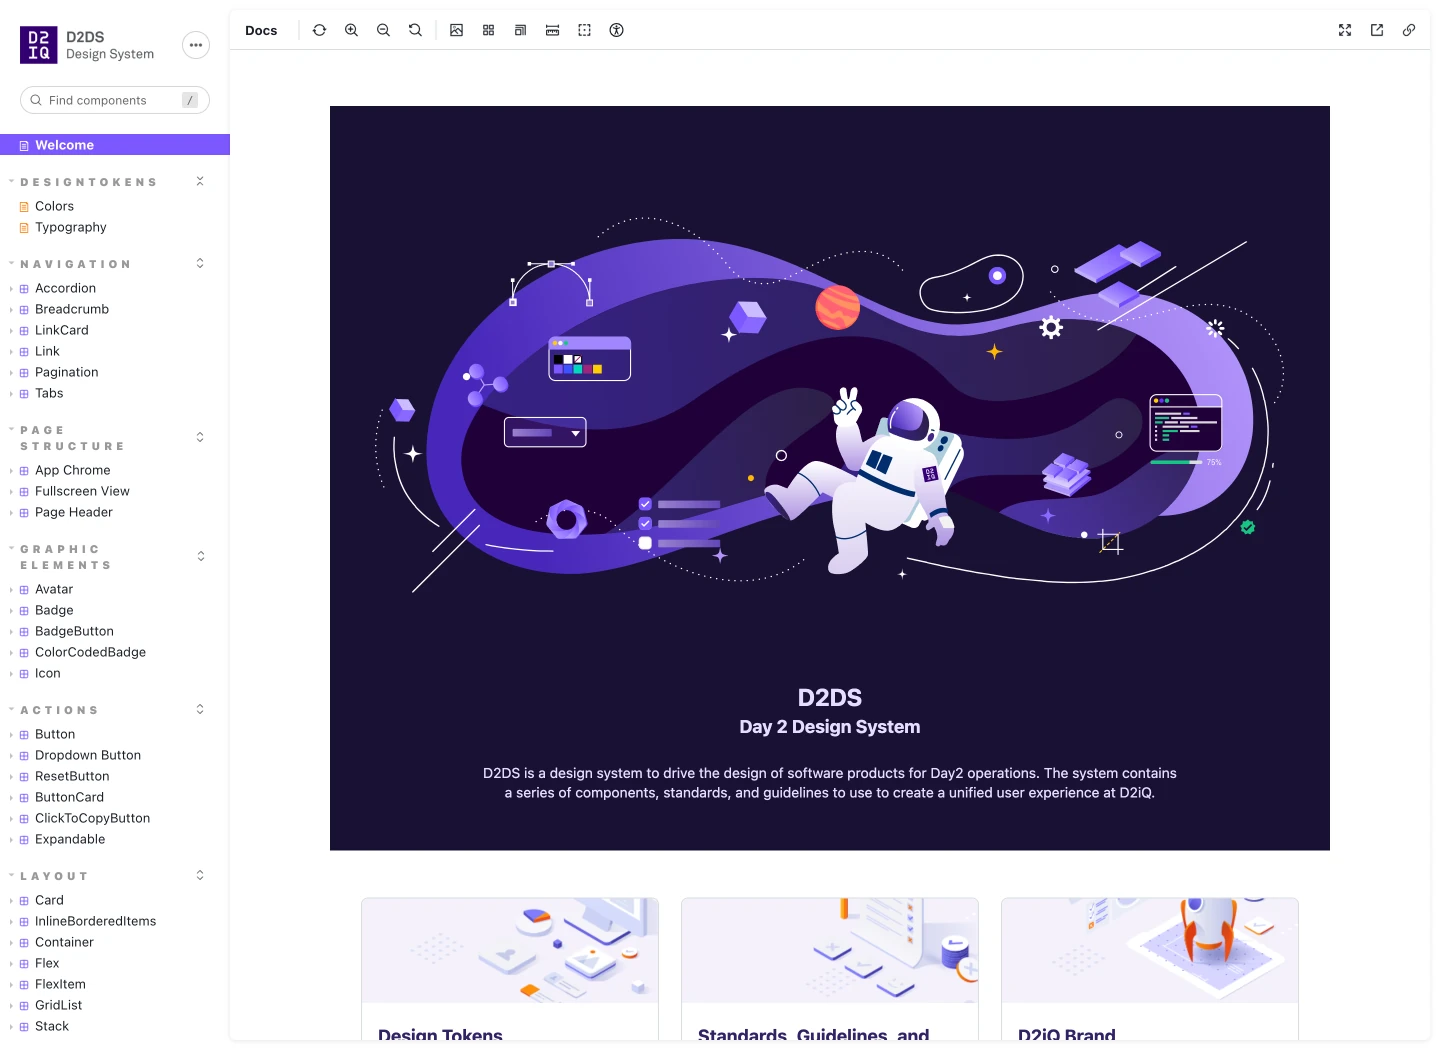
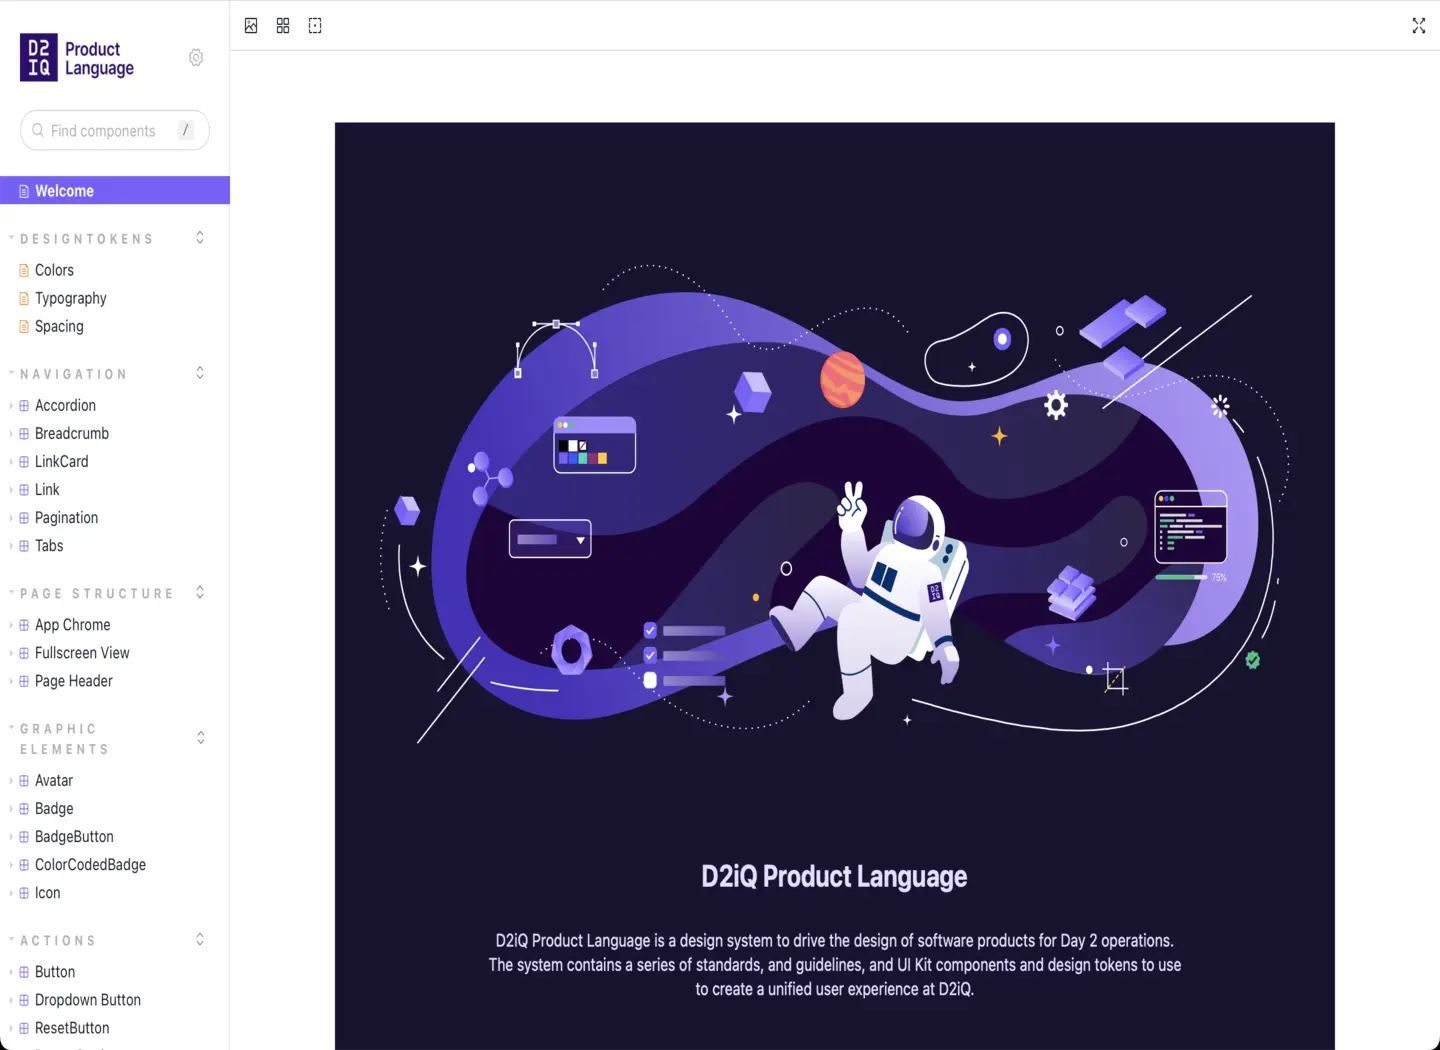
UI: Fix D2IQ link and asset

diff --git a/src/components/screens/IndexScreen/IndexScreen.js b/src/components/screens/IndexScreen/IndexScreen.js
@@ -37,7 +37,7 @@ export const storybooks = [
   {
     name: 'D2IQ',
     logo: 'https://avatars.githubusercontent.com/u/19392808?v=4',
-    url: 'https://dcos-labs.github.io/ui-kit/',
+    url: 'http://design-system.d2iq.com/',
     image: { src: 'images/home/storybooks/d2iq.webp', width: 1440, height: 1050 },
   },
   {
